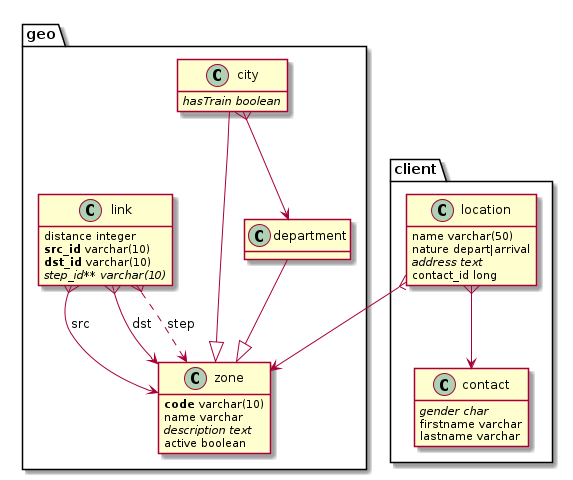
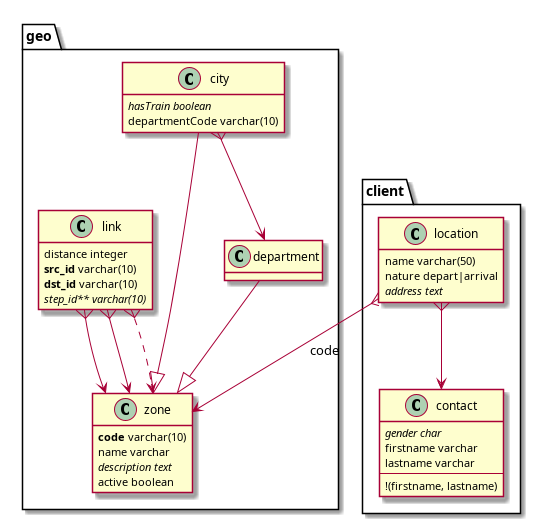
Release 0.22: document composite constraint groups, bump version

diff --git a/CHANGELOG.md b/CHANGELOG.md
@@ -1,5 +1,12 @@
 # Changelog
 
+## 0.22
+- Add composite unique/index constraint groups: `!(a, b)` and `+(a, b)` lines inside a table block (repeatable, may overlap; column order is declaration order)
+- **Semantic change**: multiple `+` fields now produce one index each; the previous implicit grouping of all indexed fields into a single composite index is gone (composite is spelled `+(a, b)`)
+- Non-unique indexes are now emitted as `CREATE INDEX` statements (the previous inline `INDEX (...)` was invalid PostgreSQL)
+- KDDL output: render the `+` indexed marker (was dropped) and constraint group lines
+- JDBC reverse engineering: multi-column unique indexes are now mapped to `!(a, b)` groups instead of being dropped (or mis-attributed on odd column counts)
+
 ## 0.21
 - Downgrade `mysql-connector-j` to 8.4.0 (last release on protobuf-java 3.x) to avoid forcing protobuf 4.x onto consumer buildscript classpaths and breaking AGP's Tink-based release tasks (`NoSuchMethodError` on `Keyset.makeExtensionsImmutable`)
 

diff --git a/README.md b/README.md
@@ -109,6 +109,7 @@ database geo {
       gender char?                   // field types are mandatory for postgresql
       firstname varchar(200)
       +lastname varchar(200)         // field is indexed
+      !(firstname, lastname)         // composite unique constraint; '+(a, b)' declares a composite index
     }
 
     table location {
